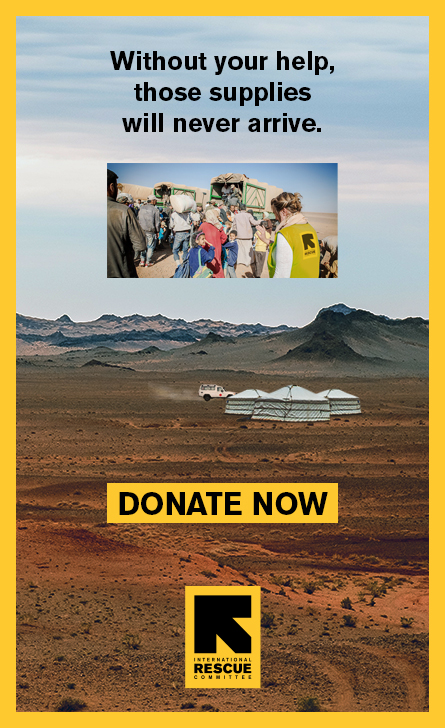
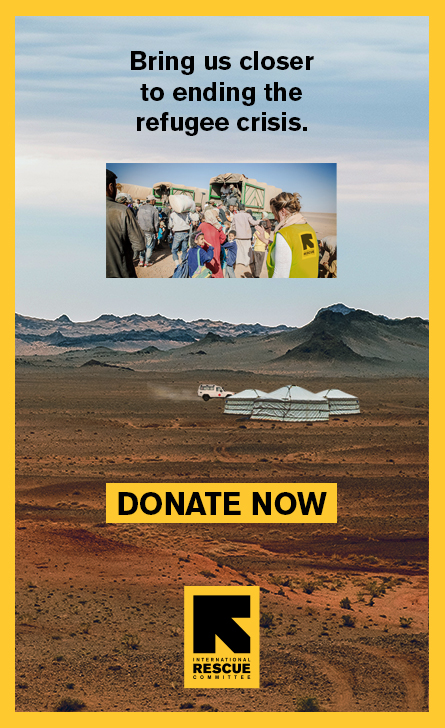
Changed ending language and fixed header responsiveness issue

diff --git a/js/index.js b/js/index.js
@@ -147,10 +147,16 @@ $(document).ready(function() {
 			$('#img1440').css("width", "1700px");
 			$('#img1440').show();
 			$('#img1400, #img1350, #img1300, #img1250, #img1200, #img1150, #img1100, #img1050, #img1000, #img950, #img900, #img850, #img800, #img750, #img700, #img650, #img600, #img550, #img520, #img500, #img480, #img460, #img445').hide();
+			if (prev < w) {
+				$('#mainheader').css("width", "1700px");
+			}
 		} else if (w >= 1440) {
 			$('#img1440').css("width", "100%");
 			$('#img1440').show();
 			$('#img1400, #img1350, #img1300, #img1250, #img1200, #img1150, #img1100, #img1050, #img1000, #img950, #img900, #img850, #img800, #img750, #img700, #img650, #img600, #img550, #img520, #img500, #img480, #img460, #img445').hide();
+			if (prev > w) {
+				$('#mainheader').css("width", "100%");
+			}
 		} else if (w >= 1400) {
 			$('#img1440, #img1350, #img1300, #img1250, #img1200, #img1150, #img1100, #img1050, #img1000, #img950, #img900, #img850, #img800, #img750, #img700, #img650, #img600, #img550, #img520, #img500, #img480, #img460, #img445').hide();
 			$('#img1400').show();
